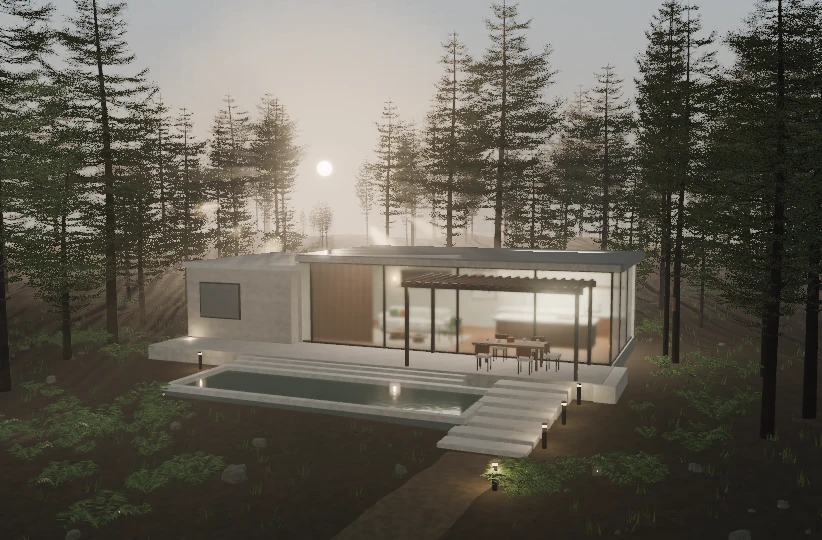
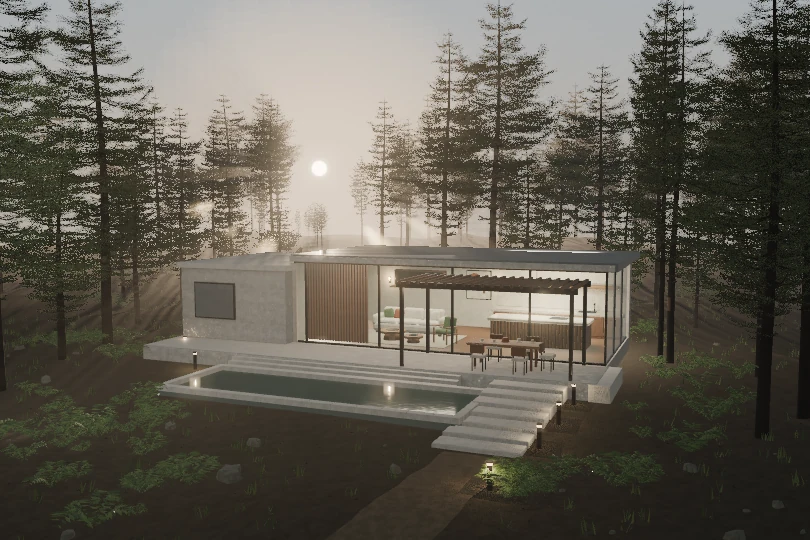
Improve Three.js glazing and baked lighting in the forest showcase

diff --git a/tests/blender.integration.ts b/tests/blender.integration.ts
@@ -289,9 +289,10 @@ for index, position in enumerate(((3,-6,2),(6,-2,2),(-6,-2,2),(4,4,3),(2,-2,8)),
     }
   }
   assert.ok(dark > 1000 && bright > 1000, "The exported mask must have both unlit and emitting regions");
-  const portableNormal = gltf.materials.find((material: any) => material.name === "Warm floor" && material.normalTexture);
+  const unbakedReceiver = gltf.nodes.find((node: any) => node.name === "ShadowReceiver");
+  const portableNormal = gltf.materials[gltf.meshes[unbakedReceiver.mesh].primitives[0].material].normalTexture;
   assert.ok(portableNormal, "The unbaked receiver retains its portable normal map");
-  const normalImage = gltf.images[gltf.textures[portableNormal.normalTexture.index].source];
+  const normalImage = gltf.images[gltf.textures[portableNormal.index].source];
   const normalView = gltf.bufferViews[normalImage.bufferView];
   const normalBytes = bytes.subarray(28 + bytes.readUInt32LE(12) + (normalView.byteOffset ?? 0));
   assert.equal(normalImage.mimeType, "image/png");
@@ -362,7 +363,7 @@ for index, position in enumerate(((3,-6,2),(6,-2,2),(-6,-2,2),(4,4,3),(2,-2,8)),
   assert.ok(exported.exportAlignment.issues.some((issue: { object: string; effect: string; status: string }) =>
     issue.object === "Studio" && issue.effect === "world volume" && issue.status === "missing"));
   assert.deepEqual(profile.bakedTints.Floor, [1, 1, 1]);
-  assert.equal(profile.materials.objects, 1, "Only the procedural swatch needs material baking");
+  assert.equal(profile.materials.objects, 2, "The swatch and shadow receiver need material baking");
   assert.ok(profile.materials.textures >= 1);
   assert.equal(profile.materials.sharedMeshes[0].reusedObjects, 1);
   assert.equal(gltf.nodes.find((node: any) => node.name === "ProceduralSwatch").mesh,
@@ -689,6 +690,9 @@ bpy.context.scene.frame_set(1)
   assert.ok(receiverPrimitive.attributes.TEXCOORD_0 !== undefined);
   assert.ok(receiverPrimitive.attributes.TEXCOORD_1 !== undefined);
   const receiverMaterial = lightmapGltf.materials[receiverPrimitive.material];
+  const receiverBaseColor = receiverMaterial.pbrMetallicRoughness.baseColorTexture;
+  assert.ok(receiverBaseColor, "The lightmapped receiver must also bake its procedural base color");
+  assert.equal(receiverBaseColor.texCoord ?? 0, 0);
   assert.ok(receiverMaterial.normalTexture, "Lightmap export preserves the source normal texture");
   assert.equal(receiverMaterial.normalTexture.texCoord ?? 0, 0);
   assert.equal(receiverMaterial.emissiveTexture, undefined, "Baked illumination must not become a physical emitter");

diff --git a/tests/viewer-lighting.test.ts b/tests/viewer-lighting.test.ts
@@ -1,7 +1,31 @@
 import assert from "node:assert/strict";
 import test from "node:test";
 import * as THREE from "three";
-import { addPlanarReflection, applyLightmaps, limitPreviewShadows, limitRasterLights, setPreviewLightEnergy } from "../src/viewer/lighting.js";
+import { addPlanarReflection, applyLightmaps, limitPreviewShadows, limitRasterLights, setPreviewLightEnergy, sharpenThinGlass } from "../src/viewer/lighting.js";
+
+test("raster clear thin glass samples full-resolution transmission without replacing existing material hooks", () => {
+  const glass = new THREE.MeshPhysicalMaterial({ transmission: 0.98, roughness: 0.026 });
+  const frosted = new THREE.MeshPhysicalMaterial({ transmission: 1, roughness: 0.35 });
+  const water = new THREE.MeshPhysicalMaterial({ transmission: 1, roughness: 0.015, roughnessMap: new THREE.Texture() });
+  const thick = new THREE.MeshPhysicalMaterial({ transmission: 1, roughness: 0.02, thickness: 0.4 });
+  const root = new THREE.Group();
+  const geometry = new THREE.PlaneGeometry();
+  for (const material of [glass, glass, frosted, water, thick]) root.add(new THREE.Mesh(geometry, material));
+  const chunk = "#include <transmission_pars_fragment>";
+  glass.onBeforeCompile = shader => { shader.fragmentShader += "\n// Existing material hook"; };
+  glass.customProgramCacheKey = () => "existing";
+  sharpenThinGlass(root);
+  const sampleShader = { fragmentShader: chunk } as Parameters<THREE.Material["onBeforeCompile"]>[0];
+  glass.onBeforeCompile(sampleShader, {} as THREE.WebGLRenderer);
+  assert.equal(glass.customProgramCacheKey(), "existing:thin-glass");
+  assert.match(sampleShader.fragmentShader, /textureLod\( transmissionSamplerMap, fragCoord.xy, 0.0 \)/);
+  assert.ok(sampleShader.fragmentShader.includes("// Existing material hook"));
+  for (const material of [frosted, water, thick]) {
+    const unchangedShader = { fragmentShader: chunk } as typeof sampleShader;
+    material.onBeforeCompile(unchangedShader, {} as THREE.WebGLRenderer);
+    assert.equal(unchangedShader.fragmentShader, chunk);
+  }
+});
 
 test("static lightmaps preserve PBR inputs, source UVs and shared materials", async () => {
   const geometry = new THREE.PlaneGeometry(4, 4);

diff --git a/src/viewer/lighting.ts b/src/viewer/lighting.ts
@@ -113,6 +113,33 @@ export async function applyLightmaps(root: THREE.Object3D, maps: Lightmap[], ass
   return textures;
 }
 
+export function sharpenThinGlass(root: THREE.Object3D) {
+  const materials = new Set<THREE.Material>();
+  root.traverse(object => {
+    if (object instanceof THREE.Mesh) {
+      for (const material of Array.isArray(object.material) ? object.material : [object.material]) materials.add(material);
+    }
+  });
+  const transmission = THREE.ShaderChunk.transmission_pars_fragment.replace(
+    "return textureBicubic( transmissionSamplerMap, fragCoord.xy, lod );",
+    "return textureLod( transmissionSamplerMap, fragCoord.xy, 0.0 );"
+  );
+  for (const material of materials) {
+    if (!(material instanceof THREE.MeshPhysicalMaterial) || material.transmission <= 0 ||
+      material.thickness > 0 || material.thicknessMap || material.normalMap || material.roughnessMap ||
+      material.roughness >= 0.0525) continue;
+    // Below Three's specular roughness floor, sample the base-level transmission buffer for a clear thin pane.
+    const previous = material.onBeforeCompile.bind(material);
+    const cacheKey = material.customProgramCacheKey();
+    material.onBeforeCompile = (shader, renderer) => {
+      previous(shader, renderer);
+      shader.fragmentShader = shader.fragmentShader.replace("#include <transmission_pars_fragment>", transmission);
+    };
+    material.customProgramCacheKey = () => `${cacheKey}:thin-glass`;
+    material.needsUpdate = true;
+  }
+}
+
 /** One horizontal receiver: a second raster pass supplies view-dependent reflections. */
 export function addPlanarReflection(scene: THREE.Scene, root: THREE.Object3D, name: string) {
   const receivers: THREE.Mesh[] = [];

diff --git a/src/viewer/widget.ts b/src/viewer/widget.ts
@@ -16,7 +16,7 @@ import { UnrealBloomPass } from "three/addons/postprocessing/UnrealBloomPass.js"
 import { DenoiseMaterial, PhysicalCamera, WebGLPathTracer } from "three-gpu-pathtracer";
 import { connectThreeRT } from "./threert-live.js";
 import { keyboardNavigation } from "./navigation.js";
-import { addPlanarReflection, applyLightmaps, captureEnvironment, limitPreviewShadows, limitRasterLights, setPreviewLightEnergy, type Lightmap } from "./lighting.js";
+import { addPlanarReflection, applyLightmaps, captureEnvironment, limitPreviewShadows, limitRasterLights, setPreviewLightEnergy, sharpenThinGlass, type Lightmap } from "./lighting.js";
 import { solarVolumeShader, fogUniforms, shaftUniforms } from "./solar-volumes.js";
 import { maxViewerAssetBytes, type ExportEffects } from "../render-effects.js";
 
@@ -899,7 +899,10 @@ async function loadModel(url: string) {
     });
     applyLights(gltf.scene, profile);
     const textures: THREE.Texture[] = [];
-    if (raster) textures.push(...await applyLightmaps(gltf.scene, profile.lightmaps ?? [], name => assetURL(name, url)));
+    if (raster) {
+      textures.push(...await applyLightmaps(gltf.scene, profile.lightmaps ?? [], name => assetURL(name, url)));
+      sharpenThinGlass(gltf.scene);
+    }
     const world = profile.world;
     let environment: THREE.Texture;
     if (world.environmentUri) {

diff --git a/runtime/blender/postprocess/bake.py b/runtime/blender/postprocess/bake.py
@@ -35,7 +35,8 @@ def bake_static_lighting(scene):
                                                   preserve_all_data_layers=True, depsgraph=depsgraph)
         obj.modifiers.clear()
         source_uv = obj.data.uv_layers.active
-        if mode == "lightmap" and source_uv is None:
+        source_uv_name = source_uv.name if source_uv else None
+        if mode == "lightmap" and source_uv_name is None:
             raise ValueError("Lightmap baking requires source material UVs: " + obj.name)
         if mode == "lightmap" and len(obj.data.uv_layers) >= 4:
             raise ValueError("Lightmap baking needs a free UV channel below 4: " + obj.name)
@@ -100,7 +101,8 @@ def bake_static_lighting(scene):
             lightmaps.append({"objectName": obj.name, "uri": uri,
                               "uvChannel": obj.data.uv_layers.find(uv_name), "scale": peak,
                               "samples": scene.cycles.samples, "resolution": resolution})
-            obj.data.uv_layers.active = source_uv
+            # Adding a UV layer can invalidate Blender's RNA reference to the original layer.
+            obj.data.uv_layers.active = obj.data.uv_layers[source_uv_name]
             bpy.data.images.remove(image)
             continue
         results.append((obj, materials, image, uv_name, peak))

diff --git a/tests/scene.py b/tests/scene.py
@@ -38,6 +38,10 @@ bpy.ops.mesh.primitive_plane_add(size=8, location=(0, 0, 0.002))
 receiver = bpy.context.object
 receiver.name = "ShadowReceiver"
 receiver.data.materials.append(floor_material)
+# Bake a material input on the same mesh after its lightmap UVs have been added.
+receiver_color = floor_material.node_tree.nodes.new("ShaderNodeRGB")
+receiver_color.outputs["Color"].default_value = floor_shader.inputs["Base Color"].default_value[:]
+floor_material.node_tree.links.new(receiver_color.outputs["Color"], floor_shader.inputs["Base Color"])
 
 # A portable tiled normal map must retain its original resolution and UVs.
 normal_image = bpy.data.images.new("Portable tiled normal", width=64, height=64)

diff --git a/README.md b/README.md
@@ -43,6 +43,7 @@ from a single reference. The previews show the same scene after export.
   </tr>
 </table>
 
+The Three.js preview uses baked diffuse lighting on selected building surfaces.
 The ThreeRT image uses simplified tree geometry and is cropped to match the Blender framing.
 Fog, shadows and reflections vary between renderers.
 

diff --git a/README.zh-CN.md b/README.zh-CN.md
@@ -37,6 +37,7 @@
   </tr>
 </table>
 
+Three.js 预览在部分建筑表面使用了烘焙的漫反射照明。
 ThreeRT 图使用简化的树木几何，并按 Blender 的取景裁切。不同渲染器的雾、阴影和倒影表现有所差异。
 
 ## 插件包含什么
